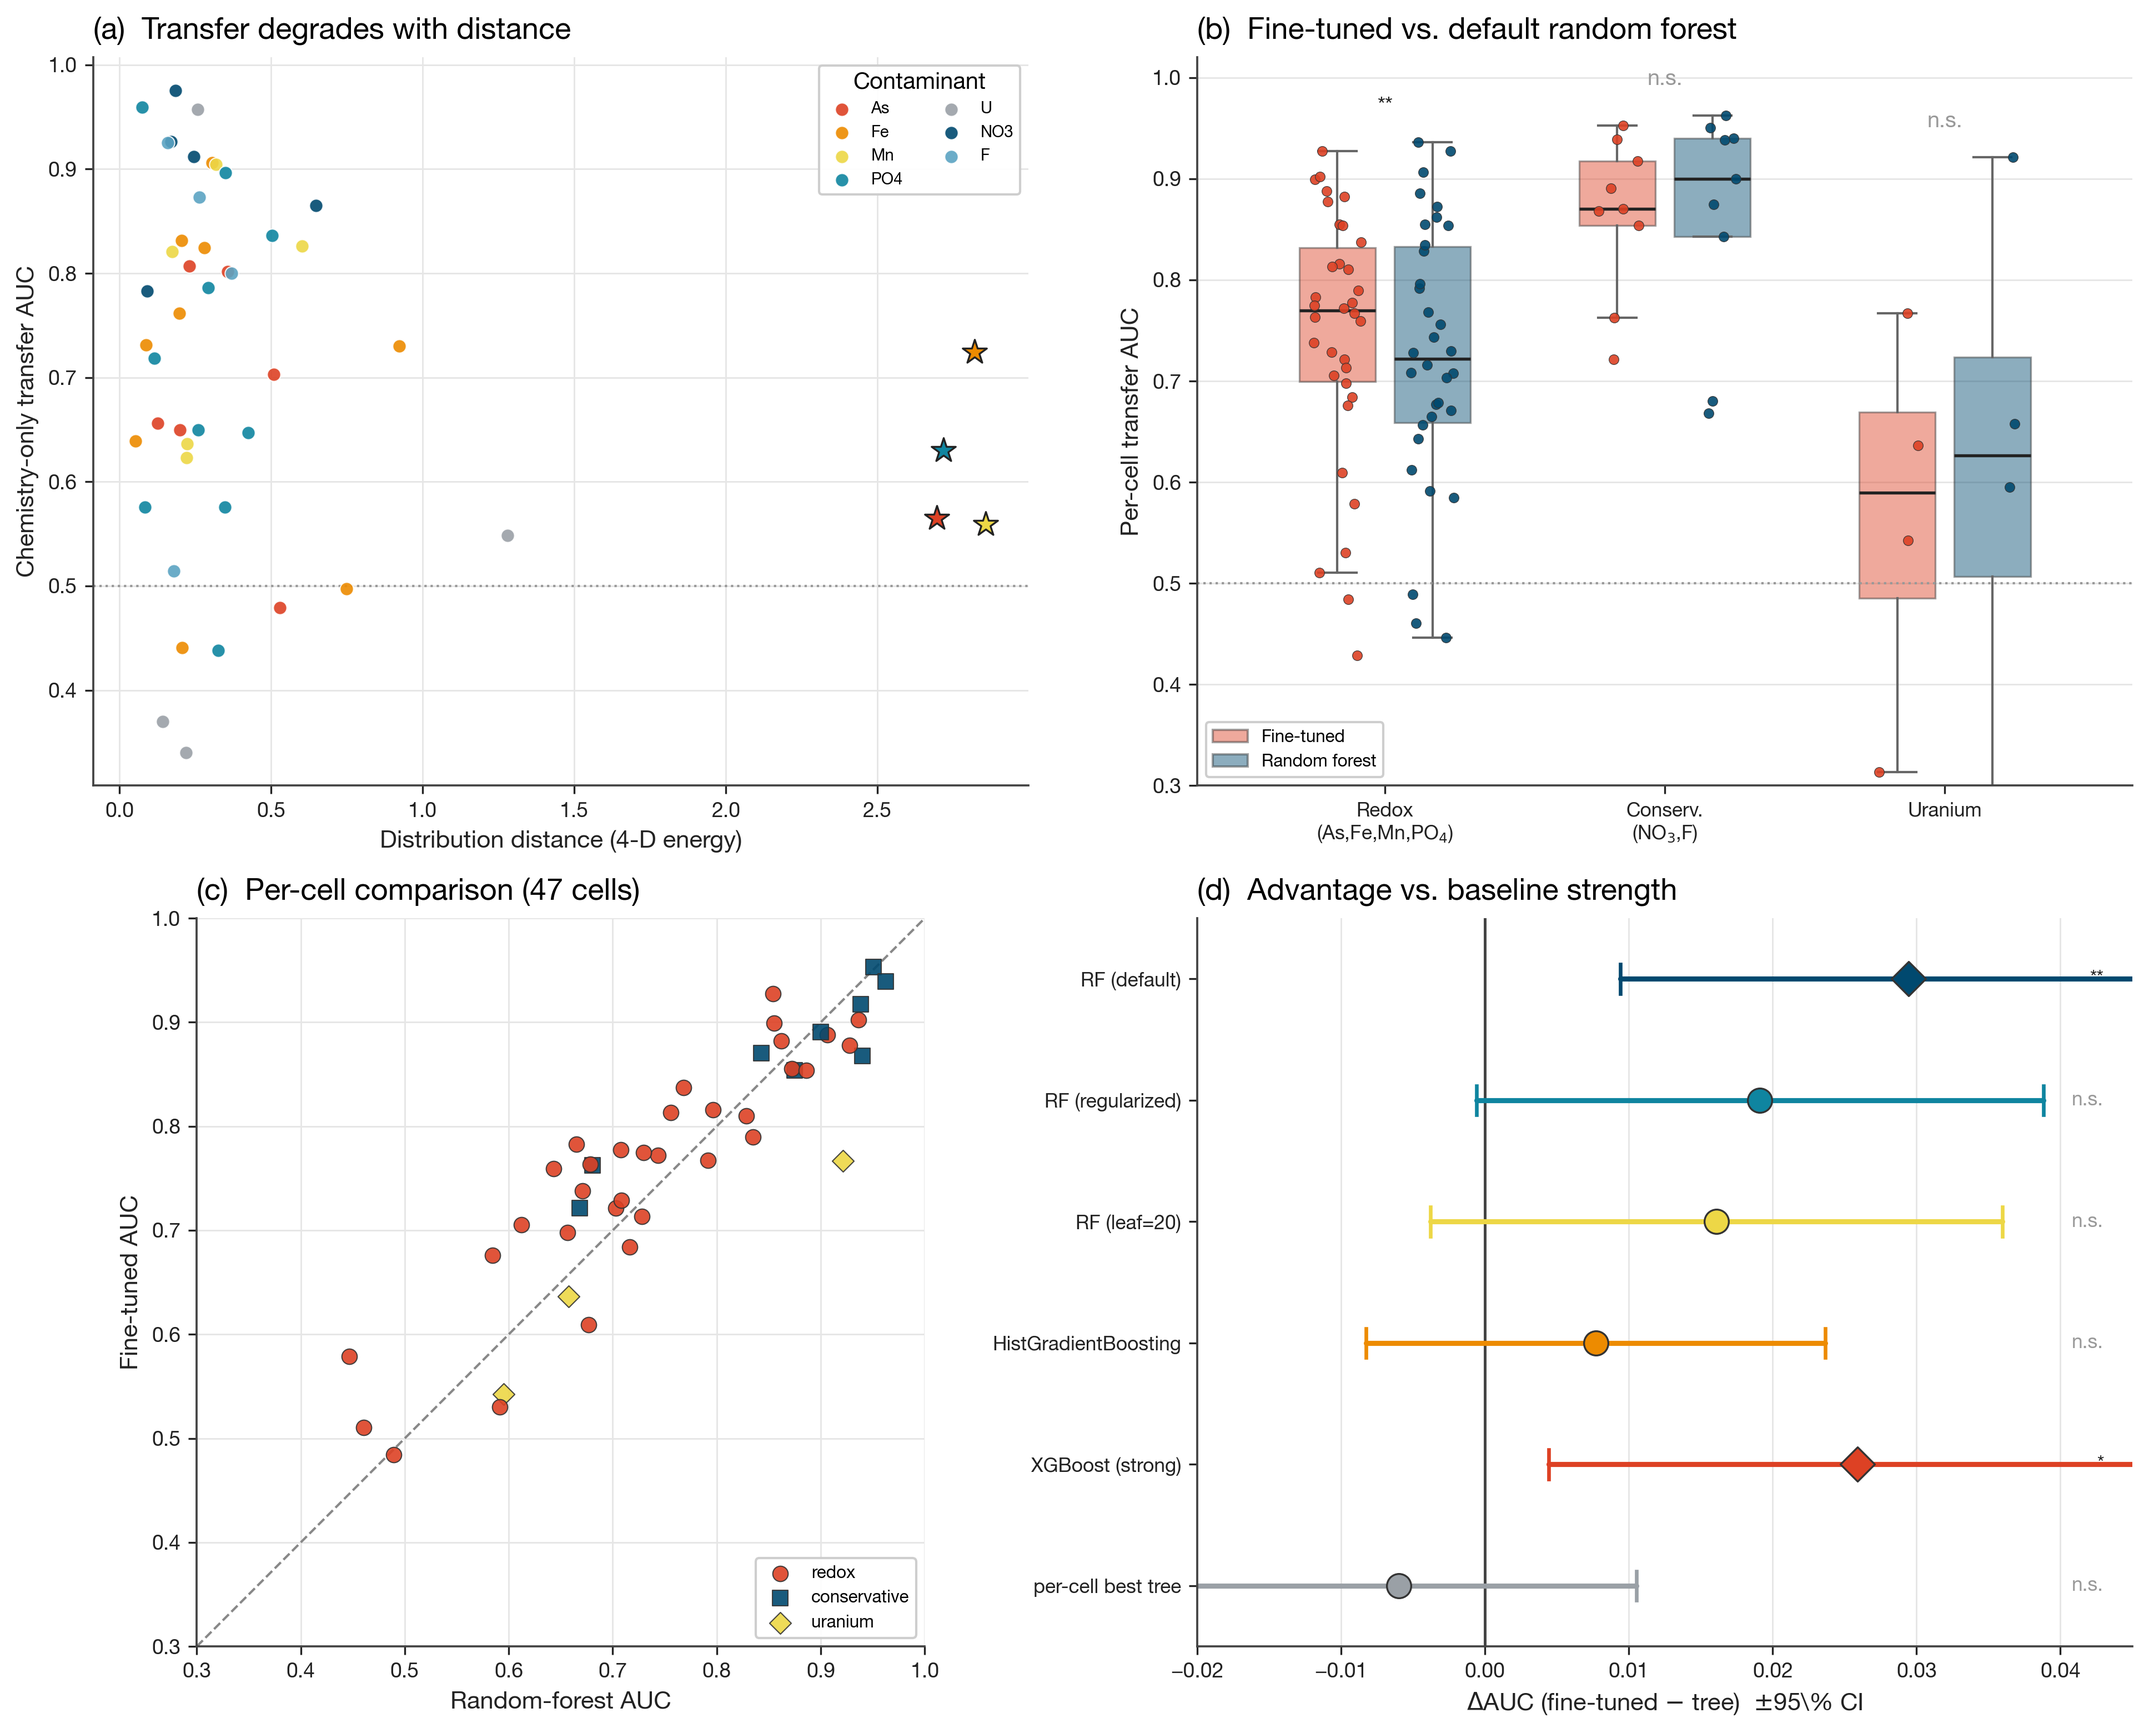
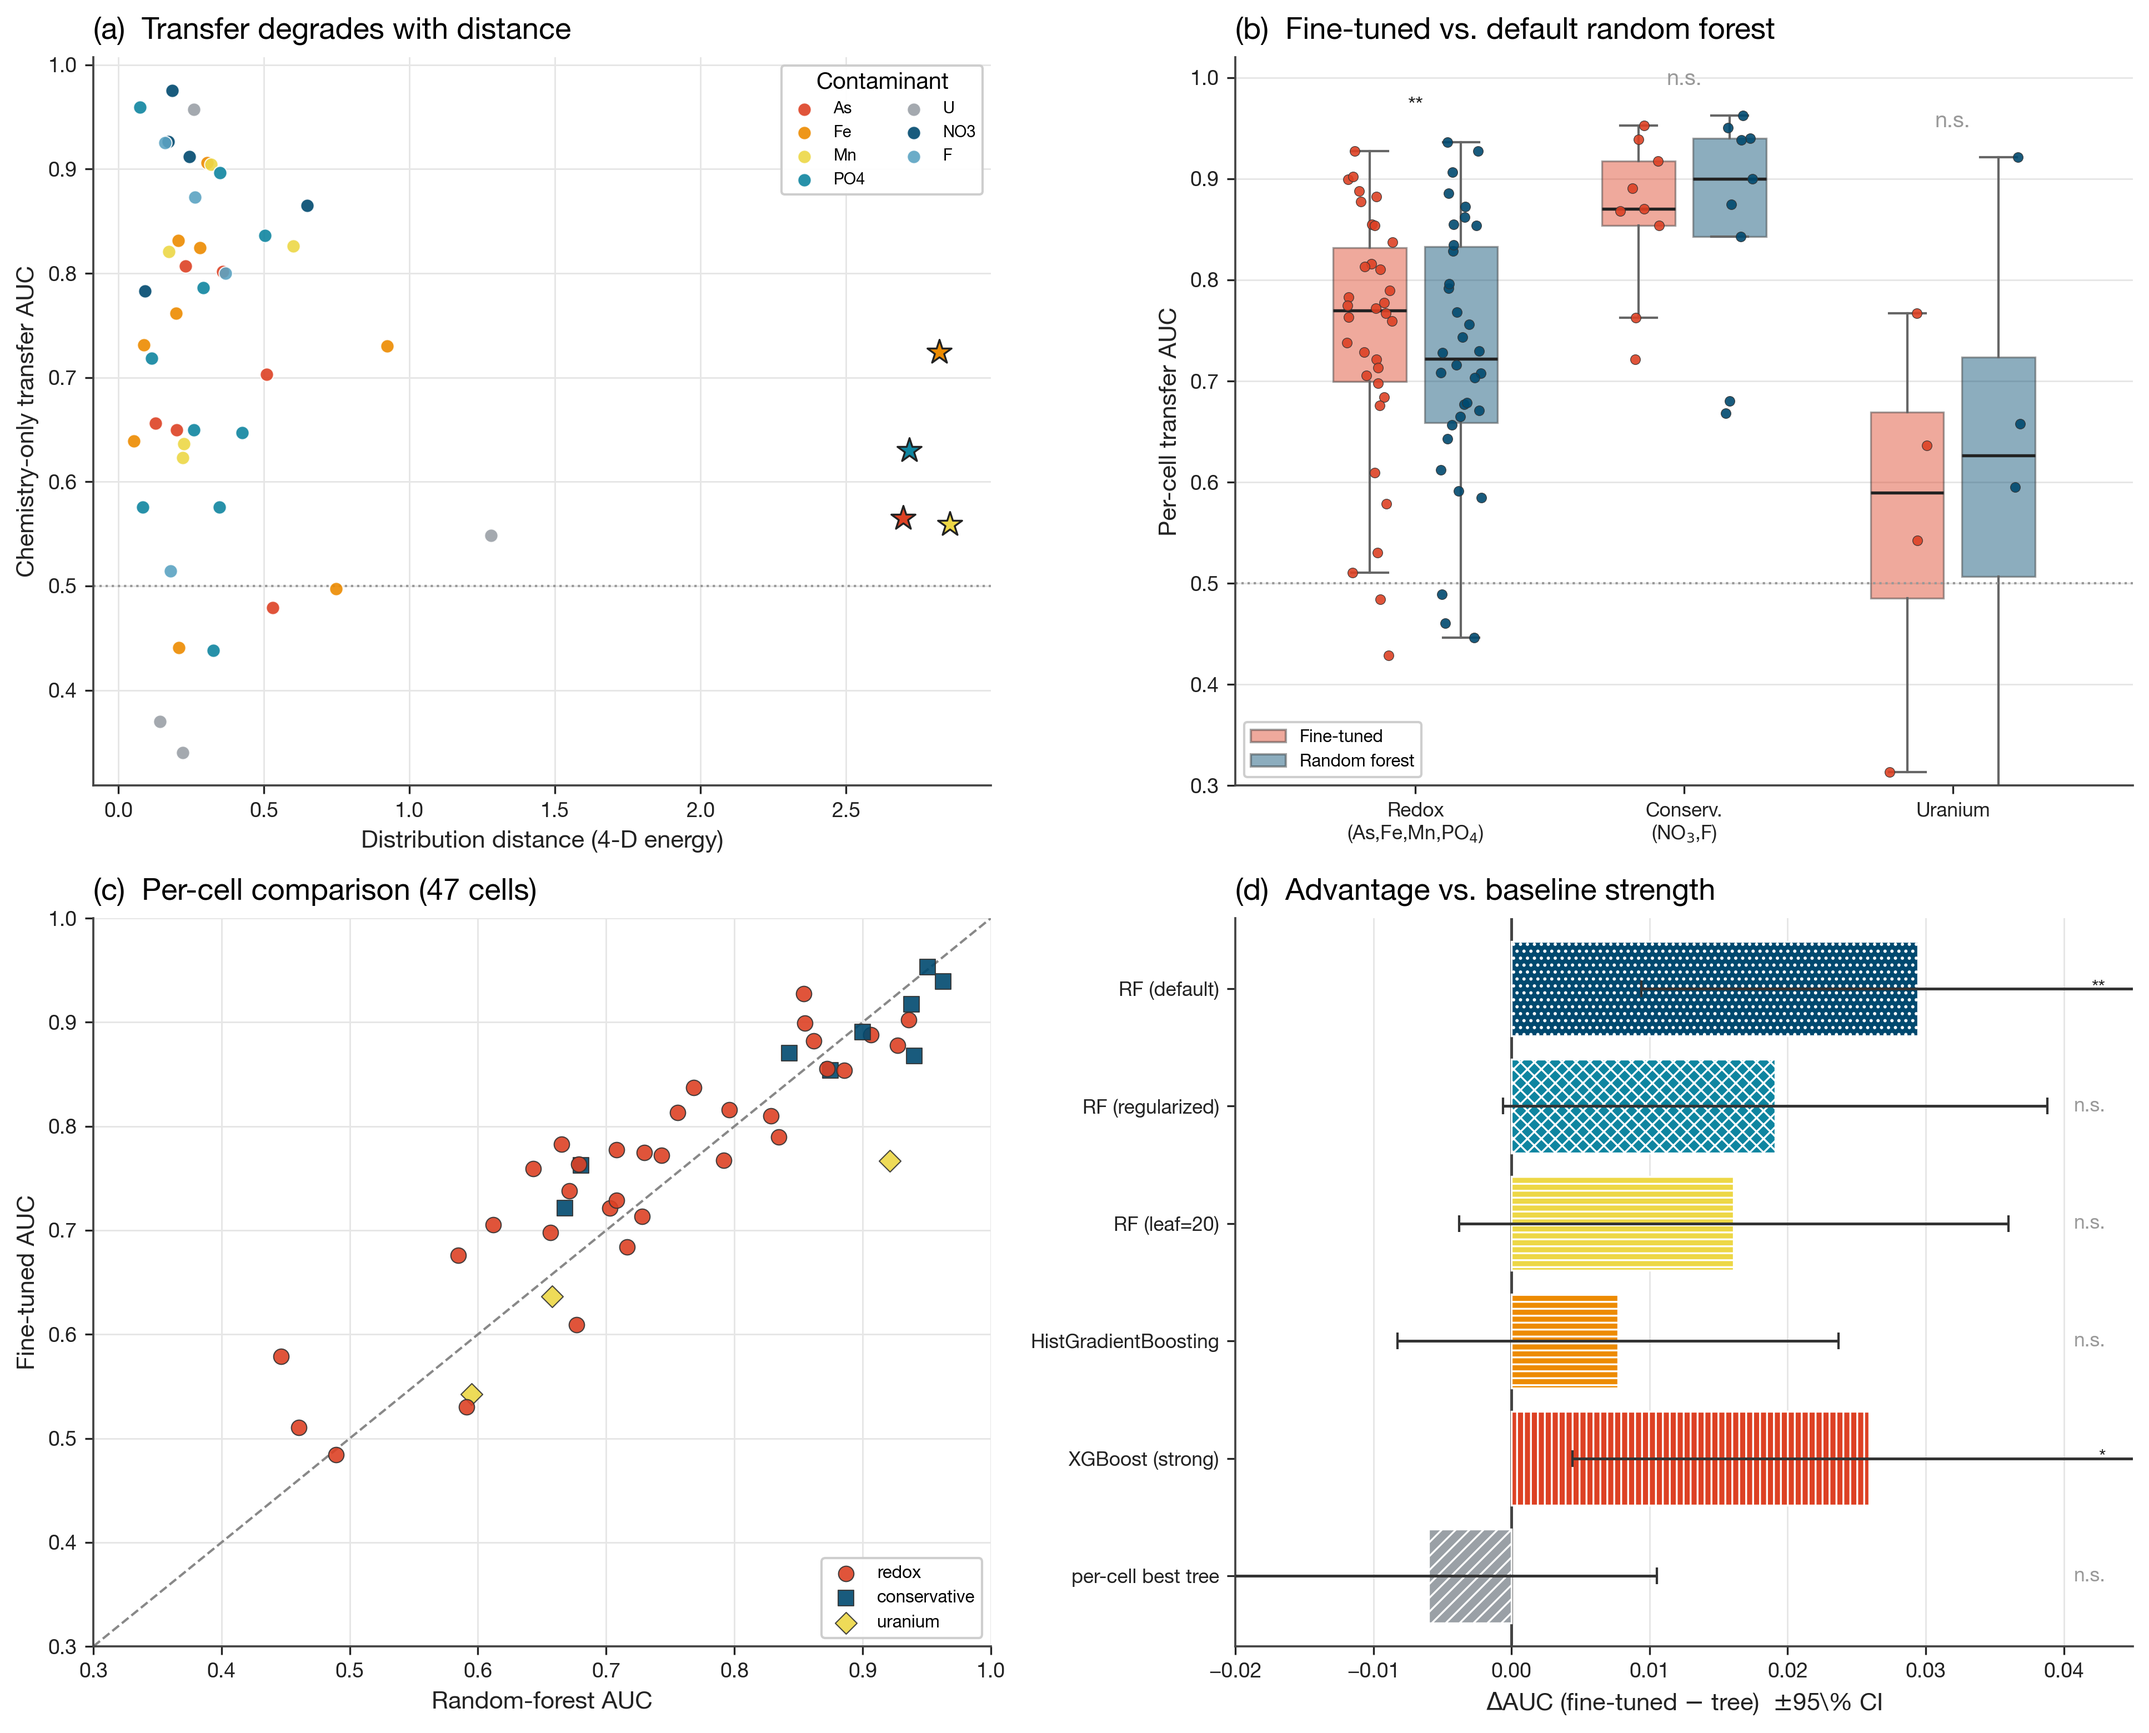
Fig 3: baseline-strength -> horizontal bars+CI whiskers; widen per-cell scatter to match grid
- Panel (d) forest plot -> horizontal hatched bars with 95% CI whiskers + sig stars.
- Panel (c) per-cell scatter: removed forced equal-aspect so it fills the cell
  width like panels (a)/(b). Figure 2(a) attention dot-plot unchanged per request.

diff --git a/src/41_composite_figures.py b/src/41_composite_figures.py
@@ -186,13 +186,13 @@ def draw_ft_vs_rf_scatter(ax):
                    label=g if g not in seen else None, zorder=3)
         seen.add(g)
     ax.plot([0.3, 1], [0.3, 1], ls="--", color="#888", lw=1.0)
-    ax.set_xlim(0.3, 1); ax.set_ylim(0.3, 1); ax.set_aspect("equal")
+    ax.set_xlim(0.3, 1); ax.set_ylim(0.3, 1)  # fill cell width (no forced square)
     ax.set_xlabel("Random-forest AUC"); ax.set_ylabel("Fine-tuned AUC")
     ax.legend(loc="lower right", fontsize=7.5)
 
 
 def draw_baseline_strength(ax):
-    """Forest plot: redox-suite paired advantage (FT - tree) +/- 95% CI per baseline."""
+    """Horizontal bars + 95% CI whiskers: redox-suite advantage (FT - tree) per baseline."""
     cells = [c for c in json.load(open("results/baseline_strength.json"))["per_cell"]
              if c["target"] in {"As", "Fe", "Mn", "PO4"}]
     gsum = json.load(open("results/baseline_strength.json"))["group_summary"]["REDOX_AsFeMnPO4"]
@@ -200,24 +200,23 @@ def draw_baseline_strength(ax):
              ("rf_leaf", "RF (leaf=20)"), ("histgb", "HistGradientBoosting"),
              ("xgb_strong", "XGBoost (strong)"), ("best_tree", "per-cell best tree")]
     cols = [fs.NAVY, fs.TEAL, fs.YELLOW, fs.ORANGE, fs.RED, fs.GREY]
+    hatches = [fs.hatch("frozen"), fs.hatch("rf"), "----", fs.hatch("histgb"),
+               fs.hatch("xgb"), fs.hatch("redox")]
     y = np.arange(len(order))[::-1]
     n = len(cells)
-    for yi, (k, lab), c in zip(y, order, cols):
+    for yi, (k, lab), c, h in zip(y, order, cols, hatches):
         diffs = np.array([cc["ft"] - cc[k] for cc in cells])
         m = diffs.mean(); se = diffs.std(ddof=1) / np.sqrt(n); ci = 1.96 * se
         p = gsum[k]["wilcoxon_p"]; sig = p < 0.05
-        ax.plot([m - ci, m + ci], [yi, yi], color=c, lw=2.2, zorder=2,
-                solid_capstyle="round")
-        ax.plot([m - ci, m - ci], [yi - 0.12, yi + 0.12], color=c, lw=1.6)  # caps
-        ax.plot([m + ci, m + ci], [yi - 0.12, yi + 0.12], color=c, lw=1.6)
-        ax.scatter(m, yi, s=110, color=c, edgecolor="#333", linewidth=0.8, zorder=3,
-                   marker="D" if sig else "o")
+        ax.barh(yi, m, color=c, hatch=h, zorder=2, **fs.BAR)
+        ax.errorbar(m, yi, xerr=ci, fmt="none", ecolor="#333", elinewidth=1.2,
+                    capsize=3.5, zorder=3)
         st = "**" if p < .01 else "*" if p < .05 else "n.s."
         ax.text(0.043, yi, st, va="center", ha="right", fontsize=8.5,
                 color="#222" if sig else "#999")
     ax.axvline(0, color="#444", lw=1.2, zorder=1)
     ax.set_yticks(y); ax.set_yticklabels([l for _, l in order], fontsize=8.5)
-    ax.set_ylim(-0.5, len(order) - 0.5)
+    ax.set_ylim(-0.6, len(order) - 0.4)
     ax.set_xlabel(r"$\Delta$AUC (fine-tuned $-$ tree)  $\pm$95\% CI")
     ax.set_xlim(-0.02, 0.045); ax.grid(axis="y", visible=False)
 
